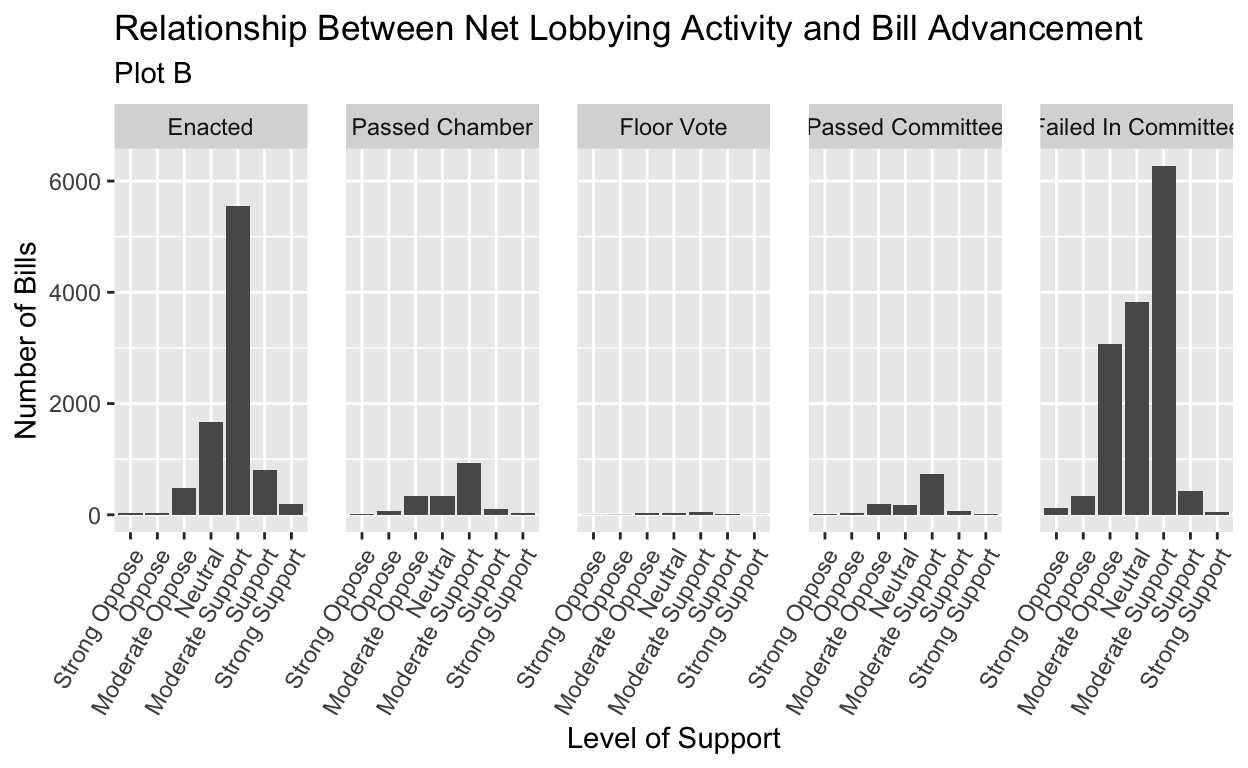
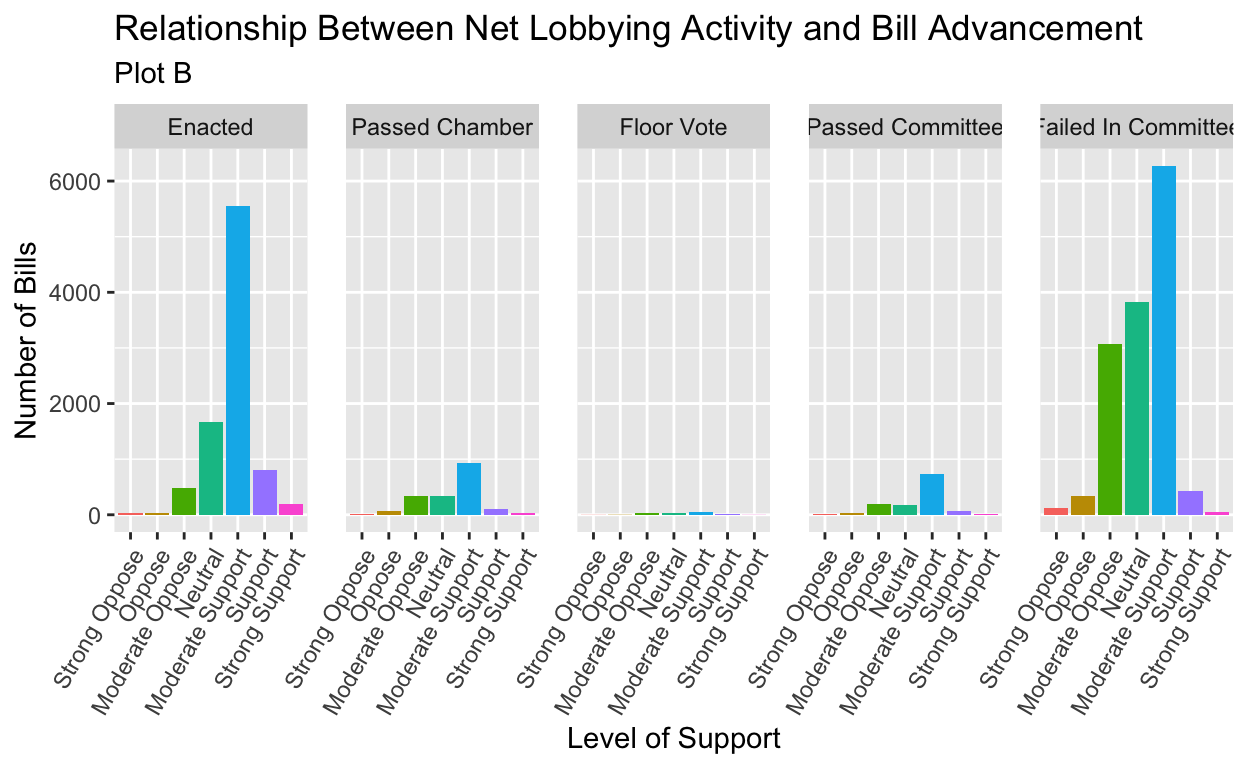
Final edits

diff --git a/index.html b/index.html
@@ -88,29 +88,29 @@ code span.wa { color: #5e5e5e; font-style: italic; } /* Warning */
 
 
   <!--radix_placeholder_meta_tags-->
-  <title>Gov 50 Final Project</title>
+  <title>Analyzing The Impact of Lobbying On Bill Chances of Passage</title>
 
-  <meta property="description" itemprop="description" content="My final project"/>
+  <meta property="description" itemprop="description" content="Gov 50 Final Project"/>
 
 
   <meta name="article:author" content="Aaryan Rawal"/>
 
   <!--  https://developers.facebook.com/docs/sharing/webmasters#markup -->
-  <meta property="og:title" content="Gov 50 Final Project"/>
+  <meta property="og:title" content="Analyzing The Impact of Lobbying On Bill Chances of Passage"/>
   <meta property="og:type" content="article"/>
-  <meta property="og:description" content="My final project"/>
+  <meta property="og:description" content="Gov 50 Final Project"/>
   <meta property="og:locale" content="en_US"/>
 
   <!--  https://dev.twitter.com/cards/types/summary -->
   <meta property="twitter:card" content="summary"/>
-  <meta property="twitter:title" content="Gov 50 Final Project"/>
-  <meta property="twitter:description" content="My final project"/>
+  <meta property="twitter:title" content="Analyzing The Impact of Lobbying On Bill Chances of Passage"/>
+  <meta property="twitter:description" content="Gov 50 Final Project"/>
 
   <!--/radix_placeholder_meta_tags-->
   <!--radix_placeholder_rmarkdown_metadata-->
 
   <script type="text/json" id="radix-rmarkdown-metadata">
-  {"type":"list","attributes":{"names":{"type":"character","attributes":{},"value":["title","author","description","output"]}},"value":[{"type":"character","attributes":{},"value":["Gov 50 Final Project"]},{"type":"list","attributes":{},"value":[{"type":"list","attributes":{"names":{"type":"character","attributes":{},"value":["name"]}},"value":[{"type":"character","attributes":{},"value":["Aaryan Rawal"]}]}]},{"type":"character","attributes":{},"value":["My final project"]},{"type":"list","attributes":{"names":{"type":"character","attributes":{},"value":["distill::distill_article"]}},"value":[{"type":"list","attributes":{"names":{"type":"character","attributes":{},"value":["self_contained"]}},"value":[{"type":"logical","attributes":{},"value":[false]}]}]}]}
+  {"type":"list","attributes":{"names":{"type":"character","attributes":{},"value":["title","author","description","output"]}},"value":[{"type":"character","attributes":{},"value":["Analyzing The Impact of Lobbying On Bill Chances of Passage"]},{"type":"list","attributes":{},"value":[{"type":"list","attributes":{"names":{"type":"character","attributes":{},"value":["name"]}},"value":[{"type":"character","attributes":{},"value":["Aaryan Rawal"]}]}]},{"type":"character","attributes":{},"value":["Gov 50 Final Project"]},{"type":"list","attributes":{"names":{"type":"character","attributes":{},"value":["distill::distill_article"]}},"value":[{"type":"list","attributes":{"names":{"type":"character","attributes":{},"value":["self_contained"]}},"value":[{"type":"logical","attributes":{},"value":[false]}]}]}]}
   </script>
   <!--/radix_placeholder_rmarkdown_metadata-->
   
@@ -227,9 +227,21 @@ code span.wa { color: #5e5e5e; font-style: italic; } /* Warning */
     display: none !important;
   }
 
+  hr.section-separator {
+    border: none;
+    border-top: 1px solid rgba(0, 0, 0, 0.1);
+    margin: 0px;
+  }
+
+
+  d-byline {
+    border-top: none;
+  }
+
   d-article {
     padding-top: 2.5rem;
     padding-bottom: 30px;
+    border-top: none;
   }
 
   d-appendix {
@@ -324,6 +336,11 @@ code span.wa { color: #5e5e5e; font-style: italic; } /* Warning */
   d-article div.sourceCode pre {
     padding-left: 18px;
     font-size: 14px;
+  }
+
+  /* tweak for Pandoc numbered line within distill */
+  d-article pre.numberSource code > span {
+      left: -2em;
   }
 
   d-article pre {
@@ -1085,6 +1102,12 @@ code span.wa { color: #5e5e5e; font-style: italic; } /* Warning */
     // create d-title
     $('.d-title').changeElementType('d-title');
 
+    // separator
+    var separator = '<hr class="section-separator" style="clear: both"/>';
+    // prepend separator above appendix
+    $('.d-byline').before(separator);
+    $('.d-article').before(separator);
+
     // create d-byline
     var byline = $('<d-byline></d-byline>');
     $('.d-byline').replaceWith(byline);
@@ -1162,8 +1185,9 @@ code span.wa { color: #5e5e5e; font-style: italic; } /* Warning */
     $('.distill-force-highlighting-css').parent().remove();
 
     // remove empty line numbers inserted by pandoc when using a
-    // custom syntax highlighting theme
-    $('code.sourceCode a:empty').remove();
+    // custom syntax highlighting theme, except when numbering line
+    // in code chunk
+    $('pre:not(.numberLines) code.sourceCode a:empty').remove();
 
     // load distill framework
     load_distill_framework();
@@ -1189,12 +1213,13 @@ code span.wa { color: #5e5e5e; font-style: italic; } /* Warning */
       // add orcid ids
       $('.authors-affiliations').find('.author').each(function(i, el) {
         var orcid_id = front_matter.authors[i].orcidID;
+        var author_name = front_matter.authors[i].author
         if (orcid_id) {
           var a = $('<a></a>');
           a.attr('href', 'https://orcid.org/' + orcid_id);
           var img = $('<img></img>');
           img.addClass('orcid-id');
-          img.attr('alt', 'ORCID ID');
+          img.attr('alt', author_name ? 'ORCID ID for ' + author_name : 'ORCID ID');
[1 lines of base64/hex data omitted]
           a.append(img);
           $(this).append(a);
@@ -1495,7 +1520,7 @@ code span.wa { color: #5e5e5e; font-style: italic; } /* Warning */
 <!--radix_placeholder_front_matter-->
 
 <script id="distill-front-matter" type="text/json">
-{"title":"Gov 50 Final Project","description":"My final project","authors":[{"author":"Aaryan Rawal","authorURL":"#","affiliation":"&nbsp;","affiliationURL":"#","orcidID":""}]}
+{"title":"Analyzing The Impact of Lobbying On Bill Chances of Passage","description":"Gov 50 Final Project","authors":[{"author":"Aaryan Rawal","authorURL":"#","affiliation":"&nbsp;","affiliationURL":"#","orcidID":""}]}
 </script>
 
 <!--/radix_placeholder_front_matter-->
@@ -1505,10 +1530,11 @@ code span.wa { color: #5e5e5e; font-style: italic; } /* Warning */
 <!--/radix_placeholder_site_before_body-->
 
 <div class="d-title">
-<h1>Gov 50 Final Project</h1>
+<h1>Analyzing The Impact of Lobbying On Bill Chances of Passage</h1>
+
 <!--radix_placeholder_categories-->
 <!--/radix_placeholder_categories-->
-<p>My final project</p>
+<p>Gov 50 Final Project</p>
 </div>
 
 <div class="d-byline">
@@ -1519,26 +1545,11 @@ code span.wa { color: #5e5e5e; font-style: italic; } /* Warning */
 </div>
 
 <div class="d-article">
-<table>
-<colgroup>
-<col style="width: 100%" />
-</colgroup>
-<thead>
-<tr class="header">
-<th style="text-align: left;"># INTRODUCTION</th>
-</tr>
-</thead>
-<tbody>
-<tr class="odd">
-<td style="text-align: left;">As I entered advocacy spaces in local and state government, advocacy groups emphasized the centrality of communicating policy positions to legislators in lobbying processes (ie public comment, private meetings, and private correspondents with the legislator’s office). Indeed, some groups claimed that packing a committee room was ultimately a more influential factor in a bill’s prospect than partisanship, even though my home-state of Virginia has experienced a significant rise in partisanship in its legislature.</td>
-</tr>
-<tr class="even">
-<td style="text-align: left;">While the centrality of lobbying is widely accepted in local and state politics, the claim is grounded in anecdotal evidence - anecdotal evidence that may no longer hold true in an increasingly hyper-partisan political environment. In this analysis, I consider if more civic engagements lead to bill advancement. Using the replication data from “Does Lobbying Affect Bill Advancement? Evidence from Three State Legislatures,” I plan to treat the number of positions taken as my independent variable, and the bill’s status as my dependent variable. I hypothesize that bills that have higher numbers of supportive positions will have more positive advancement outcomes, for higher public engagement indicates that the bill is a public priority. Further, I hypothesize that while there will still be a positive relationship between the number of supportive lobbyists and positive advancement outcomes for bills, this relationship will weaken as the process advances, simply because lobbyist relationships may not be as strong outside of specialized committees. Ultimately, this analysis can help non-profits, advocacy groups, and other organized interests guide their advocacy strategy.</td>
-</tr>
-</tbody>
-</table>
-<p>#THE DATA
-I use the replication data from “Does Lobbying Affect Bill Advancement? Evidence from Three State Legislatures” (Butler and Miller). The dataset focuses on over 26,000 bills from Colorado, Nebraska, and Wisconsin. Lobbying data was collected through public disclosure forms, while outcomes were collected through the state legislature website. Researchers used a longitudinal cross-sectional design.</p>
+<h2 id="introduction">INTRODUCTION</h2>
+<p>As I entered advocacy spaces in local and state government, advocacy groups emphasized the centrality of communicating policy positions to legislators in lobbying processes (ie public comment, private meetings, and private correspondents with the legislator’s office). Indeed, some groups claimed that packing a committee room was ultimately a more influential factor in a bill’s prospect than partisanship, even though my home-state of Virginia has experienced a significant rise in partisanship in its legislature.</p>
+<p>While the centrality of lobbying is widely accepted in local and state politics, the claim is grounded in anecdotal evidence - anecdotal evidence that may no longer hold true in an increasingly hyper-partisan political environment. In this analysis, I consider if more civic engagements lead to bill advancement. Using the replication data from “Does Lobbying Affect Bill Advancement? Evidence from Three State Legislatures,” I plan to treat the number of positions taken as my independent variable, and the bill’s status as my dependent variable. I hypothesize that bills that have higher numbers of supportive positions will have more positive advancement outcomes, for higher public engagement indicates that the bill is a public priority. Further, I hypothesize that while there will still be a positive relationship between the number of supportive lobbyists and positive advancement outcomes for bills, this relationship will weaken as the process advances, simply because lobbyist relationships may not be as strong outside of specialized committees. Ultimately, this analysis can help non-profits, advocacy groups, and other organized interests guide their advocacy strategy.</p>
+<h2 id="the-data">THE DATA</h2>
+<p>I use the replication data from “Does Lobbying Affect Bill Advancement? Evidence from Three State Legislatures” (Butler and Miller). The dataset focuses on over 26,000 bills from Colorado, Nebraska, and Wisconsin. Lobbying data was collected through public disclosure forms, while outcomes were collected through the state legislature website. Researchers used a longitudinal cross-sectional design.</p>
 <p>It includes a number of variables, a full description of which is included in appendix A. For the purposes of this analysis, I focus on the following variables:</p>
 <p><code>state</code>: The state the bill was introduced in</p>
 <p><code>session</code>: The year of the legislative session</p>
@@ -1559,10 +1570,11 @@ I use the replication data from “Does Lobbying Affect Bill Advancement? Eviden
 <p>I treat <code>enacted</code>, and a newly mutated version of <code>enacted</code> that assigns it the values “Enacted” and “Failed,” as my primary outcome variable. This is for two reasons. Practically, there are far less “Passed Chamber”, “Floor Vote”, and “Passed Committee” rows than the “Enacted” and “Failed In Committee” rows (see Chart A). Second, and more substantively, though interest groups may be interested to know at what part of the legislative process lobbying activities are successful, they are ultimately are more concerned with whether a bill becomes law or not. In other words, a bill that dies on the floor by one vote versus a bill that didn’t even make it out of committee has the same ultimate impact: they do not become law.</p>
 <p>Moreover, because it is informative to understand when lobbying’s impact diminishes, I will also treat <code>passed_chamber</code>, <code>reached_floor</code>, and <code>passed_committee</code> as relavent outcome variables.</p>
 <p>I also create a number of new variables, largely to assist in drawing plots, as many outcome variables are binary variables that can make it difficult to visualize relationships. First, I create the variable <code>advancement_breakdown</code>. <code>advancement_breakdown</code> will be used to visualize a bill’s advancement more in-depth. It sorts bills into five categories, based on their final status: “Enacted”, “Passed Chamber”, “Floor Vote”, “Passed Committee”, and “Failed In Committee”.</p>
-<p>The advantage of the <code>advancement_breakdown</code> variable is that it combines the <code>enacted</code>, <code>passed_chamber</code>, <code>reached_floor</code>, and <code>passed_committee</code> variables into one succinct variable that summarizes a bill’s status, without categorizing bills with divergent outcomes into the same outcome, as the <code>"original binary variables did</code>enactment<code>variable does (ie</code>enacted` would categorize a bill that made it to out of the chamber but failed to be enacted as the same as a bill that didn’t even make it out committee). It is key that interest groups understand when, if ever, lobbying becomes less effective, for it may necessitate a switch in legislative advocacy approaches.</p>
+<p>The advantage of the <code>advancement_breakdown</code> variable is that it combines the <code>enacted</code>, <code>passed_chamber</code>, <code>reached_floor</code>, and <code>passed_committee</code> variables into one succinct variable that summarizes a bill’s status, without categorizing bills with divergent outcomes into the same outcome, as the <code>enactment</code> variable does (ie <code>enacted</code> would categorize a bill that made it to out of the chamber but failed to be enacted as the same as a bill that didn’t even make it out committee). It is key that interest groups understand when, if ever, lobbying becomes less effective, for it may necessitate a switch in legislative advocacy approaches.</p>
 <p>My primary independent variable will be <code>for_against_balance_before_final,</code> as a means to gauge the extent to which organized interests supported a bill.</p>
 <p>Potential confounders include <code>key_vote</code>, <code>maj_leader_intro</code>, <code>intro_pid</code>, and <code>for_against_final</code>. To include <code>intro_pid</code> in regression analysis, I mutate it to a binary variable <code>intro_maj</code>, where 1 indicates that the bill’s sponsors belong to the majority party, and 0 in all other cases.</p>
-#LOADING, TIDYING, MUTATING DATA
+<p>Finally, for visualization purposes, I categorize bills into “Strong Oppose” should a net 20 or more lobbyists oppose it (for_against_balance_before_final &lt;= -20), “Oppose” should a net 10-20 lobbyists oppose it, “Neutal” should the bill have 0 net lobbyists for it, “Moderate Support” should the bill have a net 1-10 lobbyists for it, “Support” should the bill have a net 10-20 lobbyists support it, and “Strong Support” should the bill have 20 or more net lobbyists support it.</p>
+<h2 id="loading-tidying-mutating-data">LOADING, TIDYING, MUTATING DATA</h2>
 <div class="layout-chunk" data-layout="l-body">
 <div class="sourceCode">
 <pre class="sourceCode r"><code class="sourceCode r"><span><span class='kw'><a href='https://rdrr.io/r/base/library.html'>library</a></span><span class='op'>(</span><span class='va'><a href='https://tidyverse.tidyverse.org'>tidyverse</a></span><span class='op'>)</span></span>
@@ -1571,7 +1583,8 @@ I use the replication data from “Does Lobbying Affect Bill Advancement? Eviden
 <span><span class='kw'><a href='https://rdrr.io/r/base/library.html'>library</a></span><span class='op'>(</span><span class='va'><a href='https://ggplot2.tidyverse.org'>ggplot2</a></span><span class='op'>)</span></span>
 <span><span class='kw'><a href='https://rdrr.io/r/base/library.html'>library</a></span><span class='op'>(</span><span class='va'><a href='https://modelr.tidyverse.org'>modelr</a></span><span class='op'>)</span></span>
 <span><span class='kw'><a href='https://rdrr.io/r/base/library.html'>library</a></span><span class='op'>(</span><span class='va'><a href='https://broom.tidymodels.org/'>broom</a></span><span class='op'>)</span></span>
-<span><span class='kw'><a href='https://rdrr.io/r/base/library.html'>library</a></span><span class='op'>(</span><span class='va'><a href='https://modelsummary.com'>modelsummary</a></span><span class='op'>)</span></span></code></pre>
+<span><span class='kw'><a href='https://rdrr.io/r/base/library.html'>library</a></span><span class='op'>(</span><span class='va'><a href='https://modelsummary.com'>modelsummary</a></span><span class='op'>)</span></span>
+<span><span class='kw'><a href='https://rdrr.io/r/base/library.html'>library</a></span><span class='op'>(</span><span class='va'><a href='https://github.com/rstudio/distill'>distill</a></span><span class='op'>)</span></span></code></pre>
 </div>
 </div>
 <div class="layout-chunk" data-layout="l-body">
@@ -1619,7 +1632,7 @@ I use the replication data from “Does Lobbying Affect Bill Advancement? Eviden
 <span><span class='va'>lobbying_activities</span><span class='op'>$</span><span class='va'>intro_maj</span> <span class='op'>&lt;-</span> <span class='fu'><a href='https://rdrr.io/r/base/numeric.html'>as.numeric</a></span><span class='op'>(</span><span class='va'>lobbying_activities</span><span class='op'>$</span><span class='va'>intro_maj</span><span class='op'>)</span></span></code></pre>
 </div>
 </div>
-#NUMBER OF BILLS
+<h2 id="chart-a-number-of-bills">Chart A: Number of Bills</h2>
 <div class="layout-chunk" data-layout="l-body">
 <div class="sourceCode">
 <pre class="sourceCode r"><code class="sourceCode r"><span><span class='va'>lobbying_activities</span> <span class='op'>|&gt;</span> <span class='fu'><a href='https://dplyr.tidyverse.org/reference/group_by.html'>group_by</a></span><span class='op'>(</span><span class='va'>advancement_breakdown</span><span class='op'>)</span> <span class='op'>|&gt;</span> <span class='fu'><a href='https://dplyr.tidyverse.org/reference/summarise.html'>summarize</a></span><span class='op'>(</span>n<span class='op'>=</span><span class='fu'><a href='https://dplyr.tidyverse.org/reference/context.html'>n</a></span><span class='op'>(</span><span class='op'>)</span><span class='op'>)</span> <span class='op'>|&gt;</span> <span class='fu'><a href='https://tidyr.tidyverse.org/reference/pivot_wider.html'>pivot_wider</a></span><span class='op'>(</span>names_from <span class='op'>=</span> <span class='va'>advancement_breakdown</span>, values_from <span class='op'>=</span> <span class='va'>n</span><span class='op'>)</span> <span class='op'>|&gt;</span> <span class='fu'><a href='https://dplyr.tidyverse.org/reference/mutate.html'>mutate</a></span><span class='op'>(</span><span class='st'>"Combined"</span> <span class='op'>=</span> <span class='va'>`Passed Chamber`</span> <span class='op'>+</span> <span class='va'>`Floor Vote`</span> <span class='op'>+</span> <span class='va'>`Passed Committee`</span><span class='op'>)</span> <span class='op'>|&gt;</span> <span class='fu'><a href='https://dplyr.tidyverse.org/reference/select.html'>select</a></span><span class='op'>(</span><span class='va'>Enacted</span>, <span class='va'>Combined</span>, <span class='va'>`Failed In Committee`</span><span class='op'>)</span> <span class='op'>|&gt;</span> <span class='fu'>knitr</span><span class='fu'>::</span><span class='fu'><a href='https://rdrr.io/pkg/knitr/man/kable.html'>kable</a></span><span class='op'>(</span>col.names <span class='op'>=</span> <span class='fu'><a href='https://rdrr.io/r/base/c.html'>c</a></span><span class='op'>(</span><span class='st'>"Number of Bills Enacted"</span>, <span class='st'>"Combined Number of Bills that Passed Chamber, had a Floor Vote, or Passed Committee"</span>, <span class='st'>"Number of Bills That Failed In Committee"</span><span class='op'>)</span><span class='op'>)</span></span></code></pre>
@@ -1653,7 +1666,7 @@ Number of Bills That Failed In Committee
 </tbody>
 </table>
 </div>
-#Summary Plots of Dependent Variables
+<h2 id="summary-of-plots">Summary of Plots</h2>
 <div class="layout-chunk" data-layout="l-body">
 <div class="sourceCode">
 <pre class="sourceCode r"><code class="sourceCode r"><span><span class='va'>plotA</span> <span class='op'>&lt;-</span> </span>
@@ -1667,13 +1680,14 @@ Number of Bills That Failed In Committee
 <span>      title <span class='op'>=</span> <span class='st'>"Relationship Between Net Lobbying Activity and Final Bill Status"</span>,</span>
 <span>      subtitle <span class='op'>=</span> <span class='st'>"Plot A"</span><span class='op'>)</span></span>
 <span></span>
-<span><span class='va'>plotB</span> <span class='op'>&lt;-</span> <span class='fu'><a href='https://ggplot2.tidyverse.org/reference/ggplot.html'>ggplot</a></span><span class='op'>(</span><span class='va'>lobbying_activities</span>, mapping <span class='op'>=</span> <span class='fu'><a href='https://ggplot2.tidyverse.org/reference/aes.html'>aes</a></span><span class='op'>(</span>x <span class='op'>=</span> <span class='va'>level_of_support</span><span class='op'>)</span><span class='op'>)</span> <span class='op'>+</span> <span class='fu'><a href='https://ggplot2.tidyverse.org/reference/geom_bar.html'>geom_bar</a></span><span class='op'>(</span>position <span class='op'>=</span> <span class='st'>"dodge"</span><span class='op'>)</span> <span class='op'>+</span> </span>
+<span><span class='va'>plotB</span> <span class='op'>&lt;-</span> <span class='fu'><a href='https://ggplot2.tidyverse.org/reference/ggplot.html'>ggplot</a></span><span class='op'>(</span><span class='va'>lobbying_activities</span>, mapping <span class='op'>=</span> <span class='fu'><a href='https://ggplot2.tidyverse.org/reference/aes.html'>aes</a></span><span class='op'>(</span>x <span class='op'>=</span> <span class='va'>level_of_support</span>, fill <span class='op'>=</span> <span class='va'>level_of_support</span><span class='op'>)</span><span class='op'>)</span> <span class='op'>+</span> <span class='fu'><a href='https://ggplot2.tidyverse.org/reference/geom_bar.html'>geom_bar</a></span><span class='op'>(</span>position <span class='op'>=</span> <span class='st'>"dodge"</span><span class='op'>)</span> <span class='op'>+</span> </span>
 <span><span class='fu'><a href='https://ggplot2.tidyverse.org/reference/facet_wrap.html'>facet_wrap</a></span><span class='op'>(</span><span class='op'>~</span> <span class='va'>advancement_breakdown</span>, ncol <span class='op'>=</span> <span class='fl'>5</span><span class='op'>)</span> <span class='op'>+</span> <span class='fu'><a href='https://ggplot2.tidyverse.org/reference/theme.html'>theme</a></span><span class='op'>(</span>axis.text.x <span class='op'>=</span> <span class='fu'><a href='https://ggplot2.tidyverse.org/reference/element.html'>element_text</a></span><span class='op'>(</span>angle <span class='op'>=</span> <span class='fl'>60</span>, vjust <span class='op'>=</span> <span class='fl'>1</span>, hjust <span class='op'>=</span><span class='fl'>1</span><span class='op'>)</span>, panel.spacing <span class='op'>=</span> <span class='fu'><a href='https://rdrr.io/r/grid/unit.html'>unit</a></span><span class='op'>(</span><span class='fl'>1</span>, <span class='st'>"lines"</span><span class='op'>)</span><span class='op'>)</span> <span class='op'>+</span> </span>
 <span>  <span class='fu'><a href='https://ggplot2.tidyverse.org/reference/labs.html'>labs</a></span><span class='op'>(</span></span>
 <span>    x <span class='op'>=</span> <span class='st'>"Level of Support"</span>,</span>
 <span>    y <span class='op'>=</span> <span class='st'>"Number of Bills"</span>,</span>
 <span>    title <span class='op'>=</span> <span class='st'>"Relationship Between Net Lobbying Activity and Bill Advancement"</span>, </span>
-<span>    subtitle <span class='op'>=</span> <span class='st'>"Plot B"</span><span class='op'>)</span></span>
+<span>    subtitle <span class='op'>=</span> <span class='st'>"Plot B"</span><span class='op'>)</span> <span class='op'>+</span> </span>
+<span>    <span class='fu'><a href='https://ggplot2.tidyverse.org/reference/guides.html'>guides</a></span><span class='op'>(</span>fill <span class='op'>=</span> <span class='st'>"none"</span><span class='op'>)</span></span>
 <span></span>
 <span><span class='va'>plotA</span></span></code></pre>
 </div>
@@ -1685,7 +1699,7 @@ Number of Bills That Failed In Committee
 </div>
 <p>The summary plots suggests that lobbying has some impact on bill advancement, but its effects are still somewhat unclear. Plot A clearly demonstrates that more bills enacted generally face limited opposition. Likewise, Plot A also demonstrates that bills that fail are more likely to experience more lobbying opposition.</p>
 <p>Plot B’s results are more unclear. On its surface, it seems to suggest that bills that experience some advancement, but are ultimately not implemented, are more likely to expeirience moderate to neutral reactions, compared to bills that are enacted or bills that fail in committee. This may suggest that even if a bill experiences limited oppositions, it nonetheless is less likely to be enacted without strong backers.</p>
-#Main Variable Regression: Passage or Failure
+<h2 id="main-variable-regression-enactment">Main Variable Regression: Enactment</h2>
 <div class="layout-chunk" data-layout="l-body">
 <div class="sourceCode">
 <pre class="sourceCode r"><code class="sourceCode r"><span><span class='va'>singregression_passfail</span> <span class='op'>&lt;-</span> <span class='fu'><a href='https://rdrr.io/r/stats/lm.html'>lm</a></span><span class='op'>(</span><span class='va'>enacted</span> <span class='op'>~</span> <span class='va'>for_against_balance_before_final</span>, data <span class='op'>=</span> <span class='va'>lobbying_activities</span><span class='op'>)</span></span>
@@ -1776,9 +1790,9 @@ R2 Adj.
 </div>
 <p>The intercept is 0.303, meaning that, should a bill have net 0 lobbying positions (ie the amount of negative lobbying positions equals the amount of positive lobbying positions), then it has a 30.3 percent chance of passing. The slope is 0.019, meaning that, for each additional supportive lobbying position, the bills chances of passing increase by 1.9 percent.</p>
 <p>The P-value is less than 0.001, which means that this regression is statistically significant, at an alpha level of 0.05. In other words, this p value functionally means that should the amount of lobbying positions have no impact on a bill’s chances of passage, there would be a less than 0.001 chance of collecting the results the expierementers did. Still, this cannot be interpreted causally: this was a cross-sectional, not experimental, design.</p>
-<p>#Main Variable Regression: Committee, Floor, and Chamber Passage
-While interest groups are ultimately interested in a bill’s final status, they nonetheless may be interested to know if lobbying can have a divergent impact on different stages in the process. I thus also run three linear regression that analyze lobbying’s impact on the three bill stages collected within this data frame: a bill passing out of committee, a bill making it onto a floor, and a bill making it out of the chamber.</p>
-##Committee Passage
+<h2 id="main-variable-regression-committee-floor-and-chamber-passage">Main Variable Regression: Committee, Floor, and Chamber Passage</h2>
+<p>While interest groups are ultimately interested in a bill’s final status, they nonetheless may be interested to know if lobbying can have a divergent impact on different stages in the process. I thus also run three linear regression that analyze lobbying’s impact on the three bill stages collected within this data frame: a bill passing out of committee, a bill making it onto a floor, and a bill making it out of the chamber.</p>
+<h3 id="committee-passage">Committee Passage</h3>
 <div class="layout-chunk" data-layout="l-body">
 <div class="sourceCode">
 <pre class="sourceCode r"><code class="sourceCode r"><span><span class='va'>singregression_passed_committee</span> <span class='op'>&lt;-</span> <span class='fu'><a href='https://rdrr.io/r/stats/lm.html'>lm</a></span><span class='op'>(</span><span class='va'>passed_committee</span> <span class='op'>~</span> <span class='va'>for_against_balance_before_final</span>, data <span class='op'>=</span> <span class='va'>lobbying_activities</span><span class='op'>)</span></span>
@@ -1860,7 +1874,7 @@ R2 Adj.
 </div>
 <p>On lobbying’s impact on a bill’s chances of passing committee, it has an intercept of 0.379. This means that, should a bill have net 0 lobbying positions (ie the amount of negative lobbying positions equals the amount of positive lobbying positions), then it has a 37.9 percent chance of passing.The slope is 0.018, meaning that, for each additional supportive lobbying position, the bills chances of passing out of committee increase by 1.8 percent.</p>
 <p>The P-value is less than 0.001, which means that this regression is statistically significant, at an alpha level of 0.05. In other words, this p value functionally means that should the amount of lobbying positions have no impact on a bill’s chances of passage out of committee, there would be a less than 0.001 chance of collecting the results the expierementers did.</p>
-#Floor Appearance
+<h3 id="floor-appearances">Floor Appearances</h3>
 <div class="layout-chunk" data-layout="l-body">
 <div class="sourceCode">
 <pre class="sourceCode r"><code class="sourceCode r"><span><span class='va'>lobbying_activities_floor_vote</span> <span class='op'>&lt;-</span> <span class='va'>lobbying_activities</span> <span class='op'>|&gt;</span> <span class='fu'><a href='https://dplyr.tidyverse.org/reference/filter.html'>filter</a></span><span class='op'>(</span><span class='va'>passed_committee</span> <span class='op'>==</span> <span class='fl'>1</span><span class='op'>)</span></span>
@@ -1944,7 +1958,7 @@ R2 Adj.
 </div>
 <p>On lobbying’s impact on a bill’s chances of getting to the floor, I filter out the results so that we are only looking at bills that can be considered for floor consideration (ie those that passed out of committee). As the chart shows, the intercept is 0.884 - meaning that, should a bill already have passed committee, and there is no net change in the lobbying position, we would expect there to be an 88.4 percent chance of the bill appearing on the floor. The slope is 0.004, meaning that we would expect there to a 0.4 percent increase in the chances of a bill appearing on the floor, for each one additional supportive lobbying position.</p>
 <p>The P-value is less than 0.001, which means that this regression is statistically significant, at an alpha level of 0.05. In other words, this p value functionally means that should the amount of lobbying positions have no impact on a bill’s chances of getting onto the floor, there would be a less than 0.001 chance of collecting the results the expierementers did.</p>
-##Chamber Passage
+<h3 id="chamber-passage">Chamber Passage</h3>
 <div class="layout-chunk" data-layout="l-body">
 <div class="sourceCode">
 <pre class="sourceCode r"><code class="sourceCode r"><span><span class='va'>chamber_vote</span> <span class='op'>&lt;-</span> <span class='va'>lobbying_activities</span> <span class='op'>|&gt;</span> <span class='fu'><a href='https://dplyr.tidyverse.org/reference/filter.html'>filter</a></span><span class='op'>(</span><span class='va'>reached_floor</span> <span class='op'>==</span> <span class='fl'>1</span><span class='op'>)</span></span>
@@ -2039,7 +2053,7 @@ R2 Adj.
 <p>To analyze lobbying’s impact on a bill’s chances to to pass a legislative chamber, I only consider those bills that have the potential to pass a chamber (ie bills that have apoeared on the floor). Here, the intercept is 0.985 - meaning that once a bill appears on the floor, it has a 98.5 percent chance of passing the chamber, even if there is no change in the net lobbying positions. The slope is 0.001 - meaning that for each additionalsupportive lobbying position, we can expect a bill’s chances to advance out of the chamber to improve by one percent.</p>
 <p>The P-value is less than 0.001, which means that this regression is statistically significant, at an alpha level o
 0.05. In other words, this p value functionally means that should the amount of lobbying positions have no impact on a bill’s chances of advancing out of the chamber, there would be a less than 0.001 chance of collecting the results the experimenters did.</p>
-<p>#Multi Variable Regression: Lobbying</p>
+<h2 id="multi-variable-regression-enactment">Multi Variable Regression: Enactment</h2>
 <div class="layout-chunk" data-layout="l-body">
 <div class="sourceCode">
 <pre class="sourceCode r"><code class="sourceCode r"><span><span class='va'>multiregression</span> <span class='op'>&lt;-</span> <span class='fu'><a href='https://rdrr.io/r/stats/lm.html'>lm</a></span><span class='op'>(</span><span class='va'>enacted</span> <span class='op'>~</span> <span class='va'>for_against_balance_before_final</span> <span class='op'>+</span>  <span class='va'>intro_maj</span> <span class='op'>+</span> <span class='va'>for_against_final</span> <span class='op'>+</span> <span class='va'>key_vote</span> <span class='op'>+</span> <span class='va'>maj_leader_intro</span>, data <span class='op'>=</span> <span class='va'>lobbying_activities</span><span class='op'>)</span></span>
@@ -2153,36 +2167,41 @@ R2 Adj.
 </tbody>
 </table>
 </div>
-<p>The intercept is .225, which implies that when all other variables are 0, a bill has a 22.5 percent chance of enactment Within the confounder variables, kwy vote has the greatest slope, at 0.368, which means that, holding all else constant, an being considered a key vote is expected to imporve a bill’s chance at enactment by 36.8 percent. Moreover, introduced by majority leader also has a greater magnitude than lobbying at 0.041, which means that, holding all else constant, should a bill be introduced by the majority leader, it will improve its chances of passing by 4.1 percent. Finally, the slope of the net lobbying positions is 0.013, which means that, holding all else constant, we expect each additional supportive position to increase a bill’s chances of passage by 1.3 percent,</p>
+<p>The intercept is .225, which implies that when all other variables are 0, a bill has a 22.5 percent chance of enactment Within the confounder variables, kwy vote has the greatest slope, at 0.368, which means that, holding all else constant, being considered a key vote is expected to imporve a bill’s chance at enactment by 36.8 percent. Moreover, introduced by majority leader also has a greater magnitude than lobbying at 0.041, which means that, holding all else constant, should a bill be introduced by the majority leader, it will improve its chances of passing by 4.1 percent. Finally, the slope of the net lobbying positions is 0.013, which means that, holding all else constant, we expect each additional supportive position to increase a bill’s chances of passage by 1.3 percent,</p>
 <p>Because all the coeficients in this table have a p value of less than 0.001, they are significant, at an alpha level of 0.05.</p>
-<p>#Conclusion
-In this paper</p>
-<p>###Appendix A: All Variables</p>
-<h2 id="name-description">Name Description</h2>
-<p><code>state</code> The state the bill was introduced in
-<code>session</code> The year of the legislative session
-<code>statesession</code> A combined variable for <code>state</code> and <code>session</code>
-<code>bill_number</code> The number of the bill.
-<code>legtype</code> The type of legislation (ie House Bill, Senate Bill, etc.)
-<code>enacted</code> <code>1</code> if signed into law, <code>0</code> if not.
-<code>passed_chamber</code> <code>1</code> if bill passed the legislative chamber, <code>0</code> if not.
-<code>reached_floor</code> <code>1</code> if bill passed the full floor of the legislative chamber, <code>0</code> if not.
-<code>passed_committee</code> <code>1</code> if bill passed committee, <code>0</code> if not.
-<code>num_for_before_committee</code> Wisconsin Only - number of interests who supported bill in committee
-<code>num_against_before_committee</code> Wisconsin Only - number of interests who opposed bill in committee
-<code>num_for_before_floor</code> Wisconsin Only - number of interests who supported bill before it reached the floor
-<code>num_for_before_pass</code> Wisconsin Only - number of interests who supported bill before it passed in chamber of origin
-<code>num_against_before_pass</code> Wisconsin Only - number of interests who opposed bill before it passed in chamber of origin
-<code>num_for_before_final</code> Number of interests who supported bill at any point in legislative process.
-<code>num_against_before_final</code> Number of interests who opposed bill at any point in legislative process.
-<code>num_other_before_final</code> Number of interests who spoke on bill, but did not speak for or against bill at any point in legislative process.
-<code>for_against_balance_before_final</code> Difference between <code>num_for_before_final</code> and <code>num_against_before_final</code><br />
-<code>for_against_final</code> The sum of the number of interests taking positions for or against the bill
-<code>for_against_pass</code> Wisconsin only. Indicator for lobbying patterns on bills before they pass chamber of origin. Takes on values of none, only for, only against, and for and against
-<code>for_against_floor</code> Wisconsin only. Indicator for lobbying patterns on bills before they reach chamber floor. Takes on values of none, only for, only against, and for and against
-<code>for_against_committee</code> Wisconsin only. Indicator for lobbying patterns on bills during committee process. Takes on values of none, only for, only against, and for and against
-<code>for_against_other_final</code> Indicator of the pattern of lobbying on the bill by the end of the legislative session with <code>other" included; takes on values of none, only for, only against, for and against, other, for and other, against and other, and for, against, and other. `for_against_other_pass`               Wisconsin only. Indicator of the pattern of lobbying on the bill before it passes in its chamber of origin with</code>other” included; takes on values of none, only for, only against, for and against, other, for and other, against and other, and for, against, and other
-<code>for_against_other_floor</code> Wisconsin only. An indicator of the pattern of lobbying on the bill before reached the floor in its chamber of origin with `<code>other" included; takes on values of none, only for, only against, for and against, other, for and other, against and other, and for, against, and other</code>chamber_pol<code>Chamber polarization from Shor and McCarty (2011).</code>chamber_maj_pty<code>The party in control of chamber.</code>intro_pid<code>Partisanship of all of bills sponsors, coded as "majority" if only majority party members sponsor the bill, "minority" if only minority members sponsor the bill, and "indeterminate" if legislators from both majority and minority sponsor bill.</code>maj_leader_intro<code></code>1<code>if bill introduced by majority leader,</code>0<code>if not.</code>min_leader_intro<code></code>1<code>if bill introduced by minority leader,</code>0<code>if not.</code>squire<code>Legislature Squire score (used to measure level of professionalization in state legislature)</code>duplicate_bill<code></code>1<code>if bill was introduced in previous session,</code>0<code>if not.</code>key_vote<code></code>1<code>if bill was deemed key vote by Project Smart,</code>0` if not.</p>
+<h2 id="conclusion">CONCLUSION</h2>
+<p>In this paper, I analyzed the effect lobbying had on a bill’s chances of passage.</p>
+<p>Based on linear regression, there was some evidence in favor of my original hypothesis that an increase in the number of pro-lobbyist positions would improve a bill’s chances of passing. Earlier, for example, this analysis found that for each additional supportive lobbying position, the bills chances of being enacted would increase by 1.9 percent. Further, the analysis also found that the effects of each additional supportive lobbyist position were stronger early on - supporting the second part of my hypothesis, where lobbying would have a greater impact in the earlier stages of the process.</p>
+<p>However, it seems that there are a number of other covariables that have a much greater impact on the chances of a bill’s passage than lobbying. Being considered a key vote, for example, is expected to imporve a bill’s chance at enactment by 36.8 percent, while being introduced by the majority leader was also associated with a stronger expected increase in a bill’s chances of enactment compared to each additional lobbying position.</p>
+<p>There were a number of key limitations with this analysis. First, linear regression is not the best regression type to analyze binary outcome variables. Second, treating each additional supportive lobbying position equal - as this analysis does - ignores that different stakeholders have different levels of power.</p>
+<p>In the future, I’d like to shift the independent variable to the amount each lobbying organization donated in each election, with the dependent variable becoming the percentage of priorities implemented in each legislative session. Such an analysis would allow for more effective linear regression, and account for the reality that each lobbyist is not created equally. In addition, it would be interesting to expand this analysis beyond lobbying, to include public comment portions in state legislatures. Such an analysis would allow for another potential confounding variable to be considered.</p>
+<h2 id="citation">CITATION</h2>
+<p>Butler, D. M., &amp; Miller, D. R. (2022). Does Lobbying Affect Bill Advancement? Evidence from Three State Legislatures. Political Research Quarterly, 75(3), 547-561. <a href="https://doi-org.ezp-prod1.hul.harvard.edu/10.1177/10659129211012481" class="uri">https://doi-org.ezp-prod1.hul.harvard.edu/10.1177/10659129211012481</a></p>
+<h2 id="appendix-a">APPENDIX A</h2>
+<p><code>state</code>: The state the bill was introduced in
+<code>session</code>: The year of the legislative session
+<code>statesession</code>: A combined variable for <code>state</code> and <code>session</code>
+<code>bill_number</code>: The number of the bill.
+<code>legtype</code>: The type of legislation (ie House Bill, Senate Bill, etc.)
+<code>enacted</code>: <code>1</code> if signed into law, <code>0</code> if not.
+<code>passed_chamber</code>: <code>1</code> if bill passed the legislative chamber, <code>0</code> if not.
+<code>reached_floor</code>: <code>1</code> if bill passed the full floor of the legislative chamber, <code>0</code> if not.
+<code>passed_committee</code>: <code>1</code> if bill passed committee, <code>0</code> if not.
+<code>num_for_before_committee</code>: Wisconsin Only - number of interests who supported bill in committee
+<code>num_against_before_committee</code>: Wisconsin Only - number of interests who opposed bill in committee
+<code>num_for_before_floor</code>: Wisconsin Only - number of interests who supported bill before it reached the floor
+<code>num_for_before_pass</code>: Wisconsin Only - number of interests who supported bill before it passed in chamber of origin
+<code>num_against_before_pass</code>: Wisconsin Only - number of interests who opposed bill before it passed in chamber of origin
+<code>num_for_before_final</code>: Number of interests who supported bill at any point in legislative process.
+<code>num_against_before_final</code>: Number of interests who opposed bill at any point in legislative process.
+<code>num_other_before_final</code>: Number of interests who spoke on bill, but did not speak for or against bill at any point in legislative process.
+<code>for_against_balance_before_final</code>: Difference between <code>num_for_before_final</code> and <code>num_against_before_final</code><br />
+<code>for_against_final</code>:The sum of the number of interests taking positions for or against the bill
+<code>for_against_pass</code>: Wisconsin only. Indicator for lobbying patterns on bills before they pass chamber of origin. Takes on values of none, only for, only against, and for and against
+<code>for_against_floor</code>: Wisconsin only. Indicator for lobbying patterns on bills before they reach chamber floor. Takes on values of none, only for, only against, and for and against
+<code>for_against_committee</code>: Wisconsin only. Indicator for lobbying patterns on bills during committee process. Takes on values of none, only for, only against, and for and against
+<code>for_against_other_final</code>: Indicator of the pattern of lobbying on the bill by the end of the legislative session with <code>other" included; takes on values of none, only for, only against, for and against, other, for and other, against and other, and for, against, and other. `for_against_other_pass`: Wisconsin only. Indicator of the pattern of lobbying on the bill before it passes in its chamber of origin with</code>other” included; takes on values of none, only for, only against, for and against, other, for and other, against and other, and for, against, and other
+<code>for_against_other_floor</code>: Wisconsin only. An indicator of the pattern of lobbying on the bill before reached the floor in its chamber of origin with `<code>other" included; takes on values of none, only for, only against, for and against, other, for and other, against and other, and for, against, and other</code>chamber_pol<code>: Chamber polarization from Shor and McCarty (2011).</code>chamber_maj_pty<code>: The party in control of chamber.</code>intro_pid<code>: Partisanship of all of bills sponsors, coded as "majority" if only majority party members sponsor the bill, "minority" if only minority members sponsor the bill, and "indeterminate" if legislators from both majority and minority sponsor bill.</code>maj_leader_intro<code>:</code>1<code>if bill introduced by majority leader,</code>0<code>if not.</code>min_leader_intro<code>:</code>1<code>if bill introduced by minority leader,</code>0<code>if not.</code>squire<code>Legislature Squire score (used to measure level of professionalization in state legislature)</code>duplicate_bill<code>:</code>1<code>if bill was introduced in previous session,</code>0<code>if not.</code>key_vote<code>:</code>1<code>if bill was deemed key vote by Project Smart,</code>0` if not.</p>
 <div class="sourceCode" id="cb3"><pre class="sourceCode r distill-force-highlighting-css"><code class="sourceCode r"></code></pre></div>
 <!--radix_placeholder_article_footer-->
 <!--/radix_placeholder_article_footer-->
